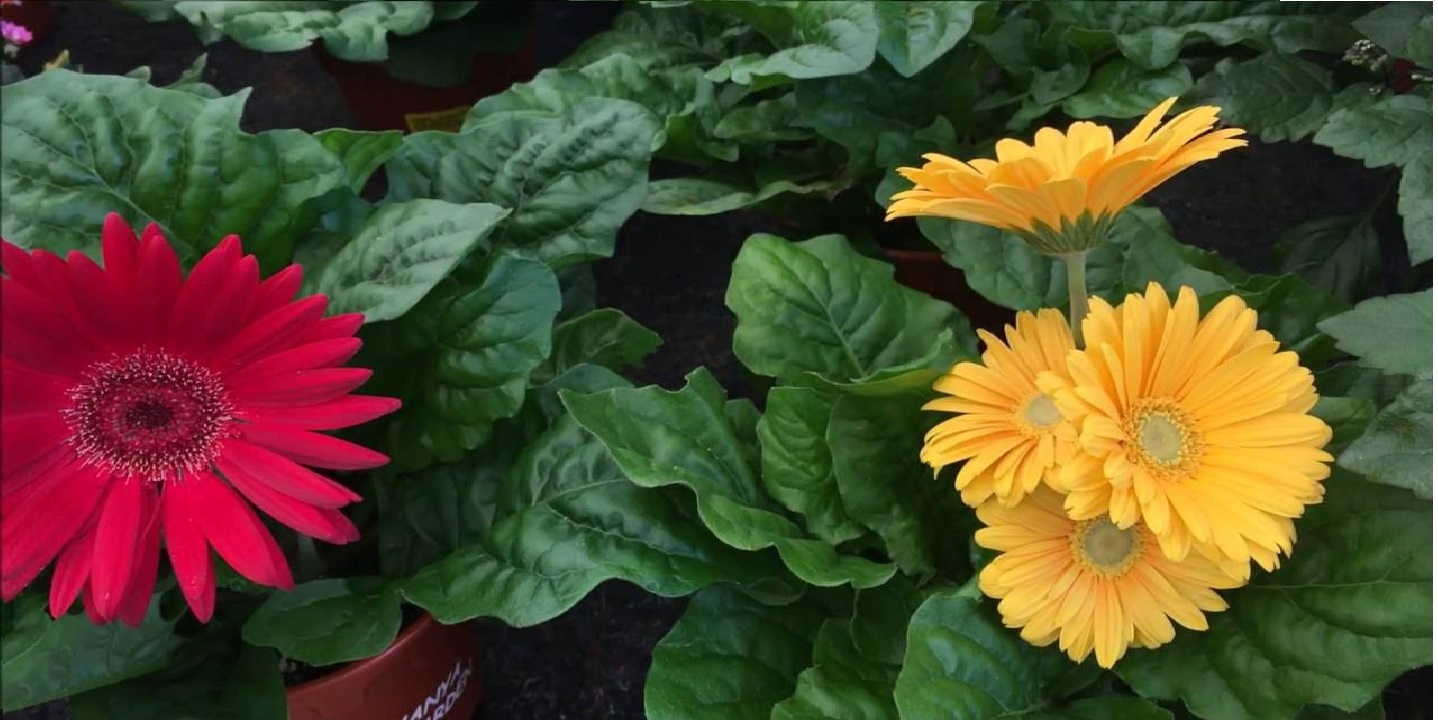
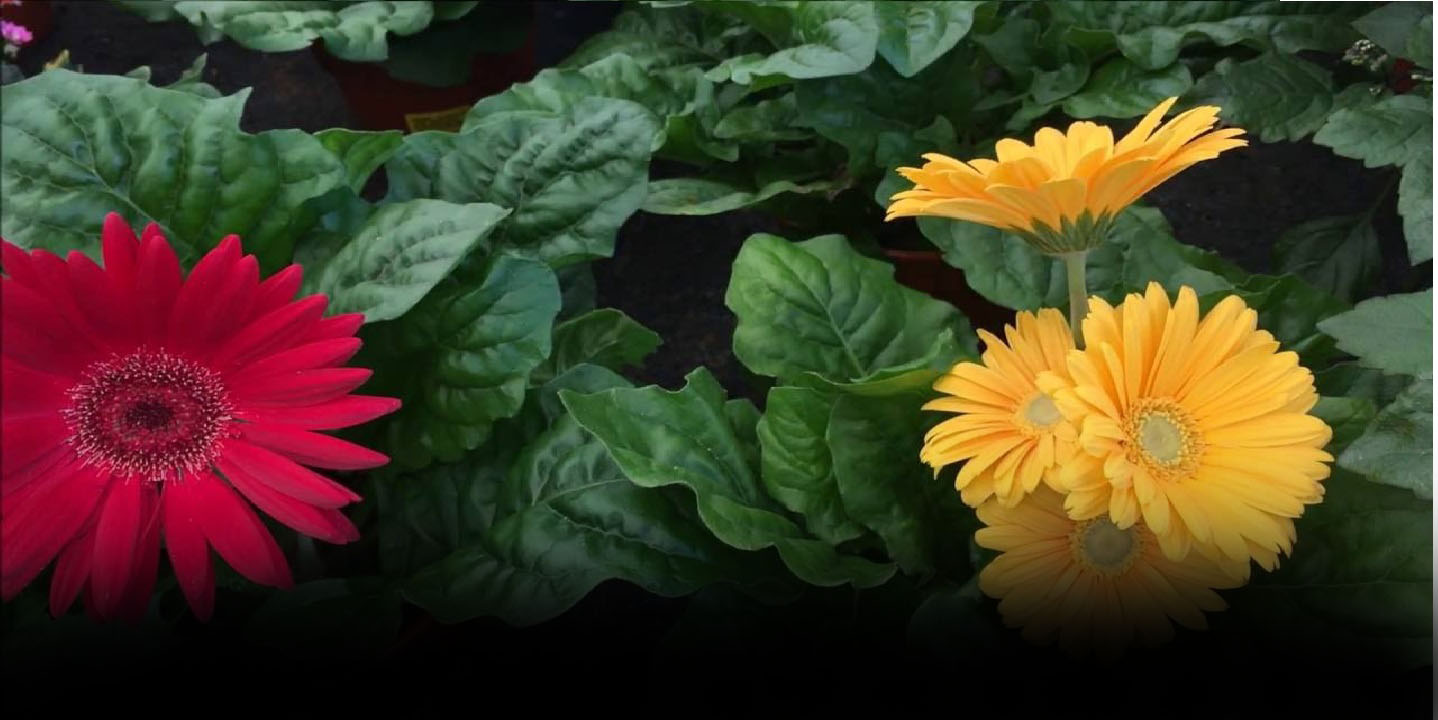
produk + WA ngambang

Changed region(s): [[0.0, 0.6417, 1.0, 1.0]]

diff --git a/project/css/styleberanda.css b/project/css/styleberanda.css
@@ -130,9 +130,56 @@ input{
 .judul{
     font-family: 'DM Serif Display', serif;
     font-size: 56px;
+    font-weight: lighter;
     background-color: transparent;
     font-family: 'DM Serif Display', serif;
     font-size: 58px;
     line-height: 56px;
     padding-left: 50px;
+}
+
+.produk{
+    font-family: 'DM Serif Display', serif;
+    font-size: 35px;
+    font-weight: lighter;
+    background-color: transparent;
+    font-family: 'DM Serif Display', serif;
+    line-height: 56px;
+    padding-left: 50px;
+}
+
+section h3:after{
+    content: " ";
+    position: absolute;
+    border: 2px solid rgb(255, 255, 255);
+    width: 800px;
+    left: 378px;
+    top: 625px;
+}
+
+section div{
+    content: " ";
+    background-color:  rgb(0, 0, 0);
+    position: absolute;
+    width: 100%;
+    height: 500px;
+    left: 0px;
+    top: 720px;
+}
+.gambar{
+    list-style: none;
+    margin: 10px 10px 10px 120px;
+}
+
+.imgproduk{
+    width: 150px;
+    height: 150px;
+}
+
+.gproduk{
+    display: inline-block;
+    padding: 15px;
+    text-align: center;
+    margin-right: 100px;
+    background-color: rgba(206, 146, 16, 0.63);
 }

diff --git a/project/index.php b/project/index.php
@@ -48,6 +48,8 @@ session_start();
     </header>
     <section>
         <p class="judul">Kebun Nursery <br> Polije</p>
+        <br>
+        <br>
         <!-- <h2>Kebun Nursery</h2> -->
         <!-- <h2>Polije</h2> -->
         <br>
@@ -68,7 +70,7 @@ session_start();
                 Hortikultura
                 Kawasan
                 Rembangan
-                500 m dpl. <br> <br>
+                500 mdpl. <br> <br>
                 Unit Produksi Hortikultura Rembangan mempunyai
                 fasilitas antara lain Kantor Pemasaran, Ruang Pasca Panen, Green
                 House tanaman hias anggrek dan pot, Rumah Produksi Krisan
@@ -108,7 +110,31 @@ session_start();
                 </p>
             </li>
             </ul> -->
-        <a href="https://api.whatsapp.com/send?phone=6281359652164&text=&source=&data="><input type="image" src="img/WA.png" width="50px" height="50px"></a>
+        <br><br><br><br>
+
+        <h3 class="produk">Produk Kami</h3>
+        <!-- Item Produk -->
+        <div>
+            <ul class="gambar">
+                <li class="gproduk">
+                    <img class="imgproduk" src="img/bunga 1.jpeg" alt="Bunga 1">
+                    <p class="p1"><a href="#">Bunga 1</a></p>
+                </li>
+                <li class="gproduk">
+                    <img class="imgproduk" src="img/bunga 2.jpeg" alt="Bunga 2">
+                    <p class="p1"><a href="#">Bunga 2</a></p>
+                </li>
+                <li class="gproduk">
+                    <img class="imgproduk" src="img/bunga 3.jpeg" alt="Bunga 3">
+                    <p class="p1"><a href="#">Bunga 3</a></p>
+                </li>
+                <li class="gproduk">
+                    <img class="imgproduk" src="img/bunga 4.jpeg" alt="Bunga 4">
+                    <p class="p1"><a href="#">Bunga 4</a></p>
+                </li>
+            </ul>
+        </div>
+        <a style="display:scroll;position:fixed;bottom:0;right:0;" href="https://api.whatsapp.com/send?phone=6281359652164&text=&source=&data=" target="_blank"><input type="image" src="img/WA.png" width="50px" height="50px"></a>
     </section>
     <script>
     function show() {
